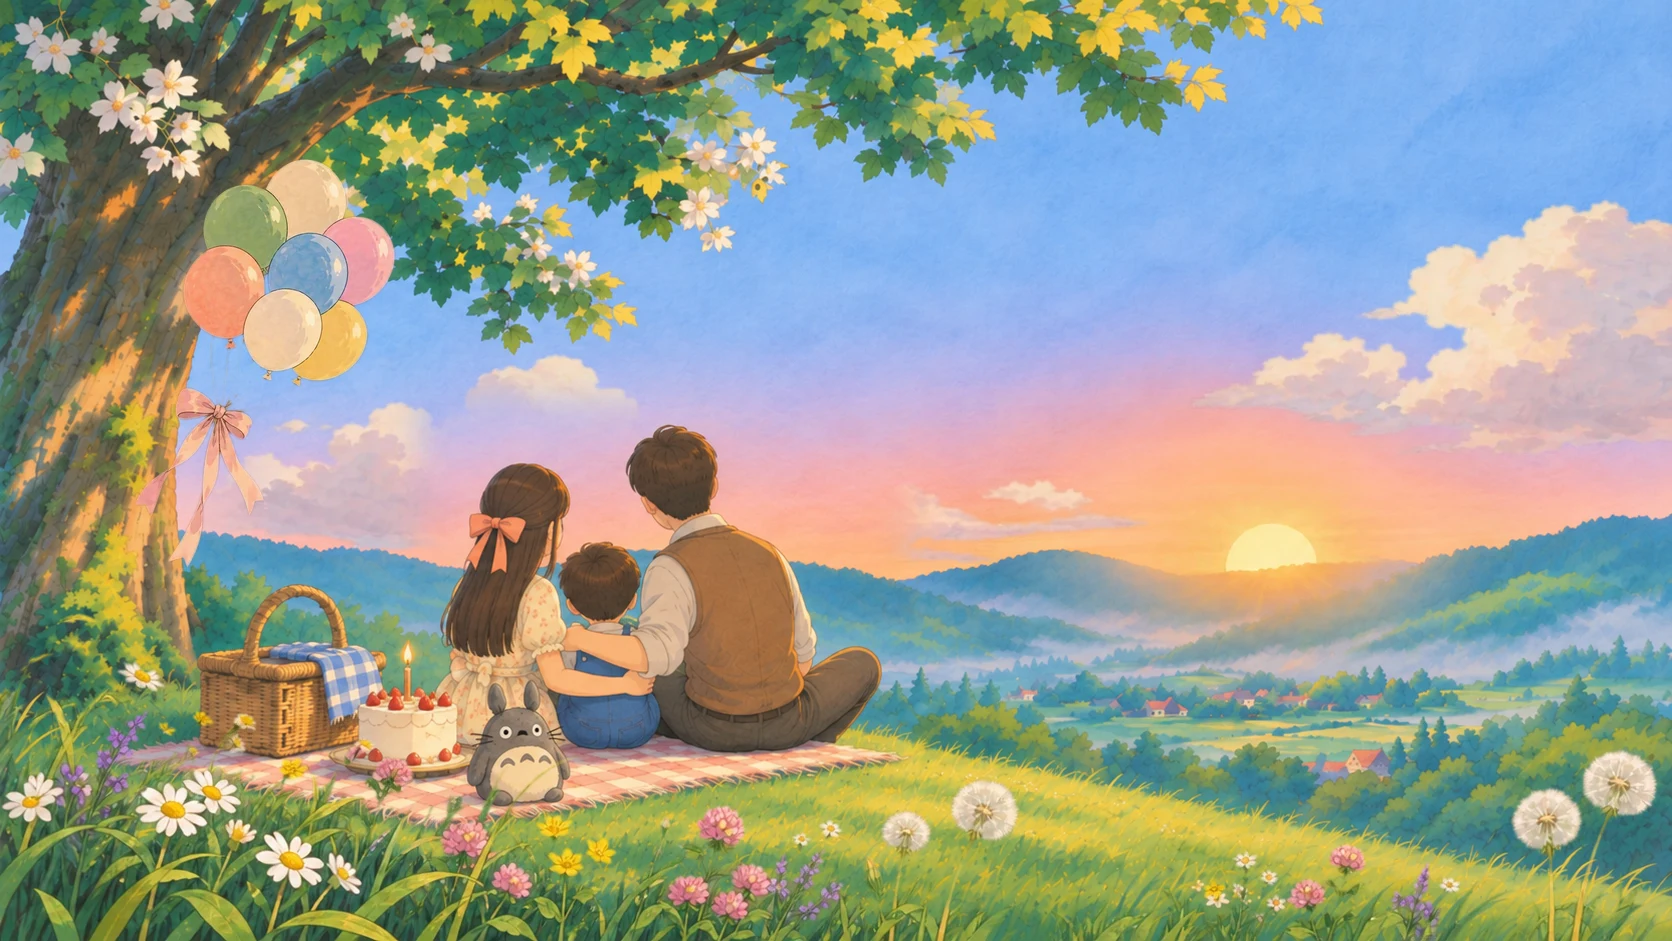
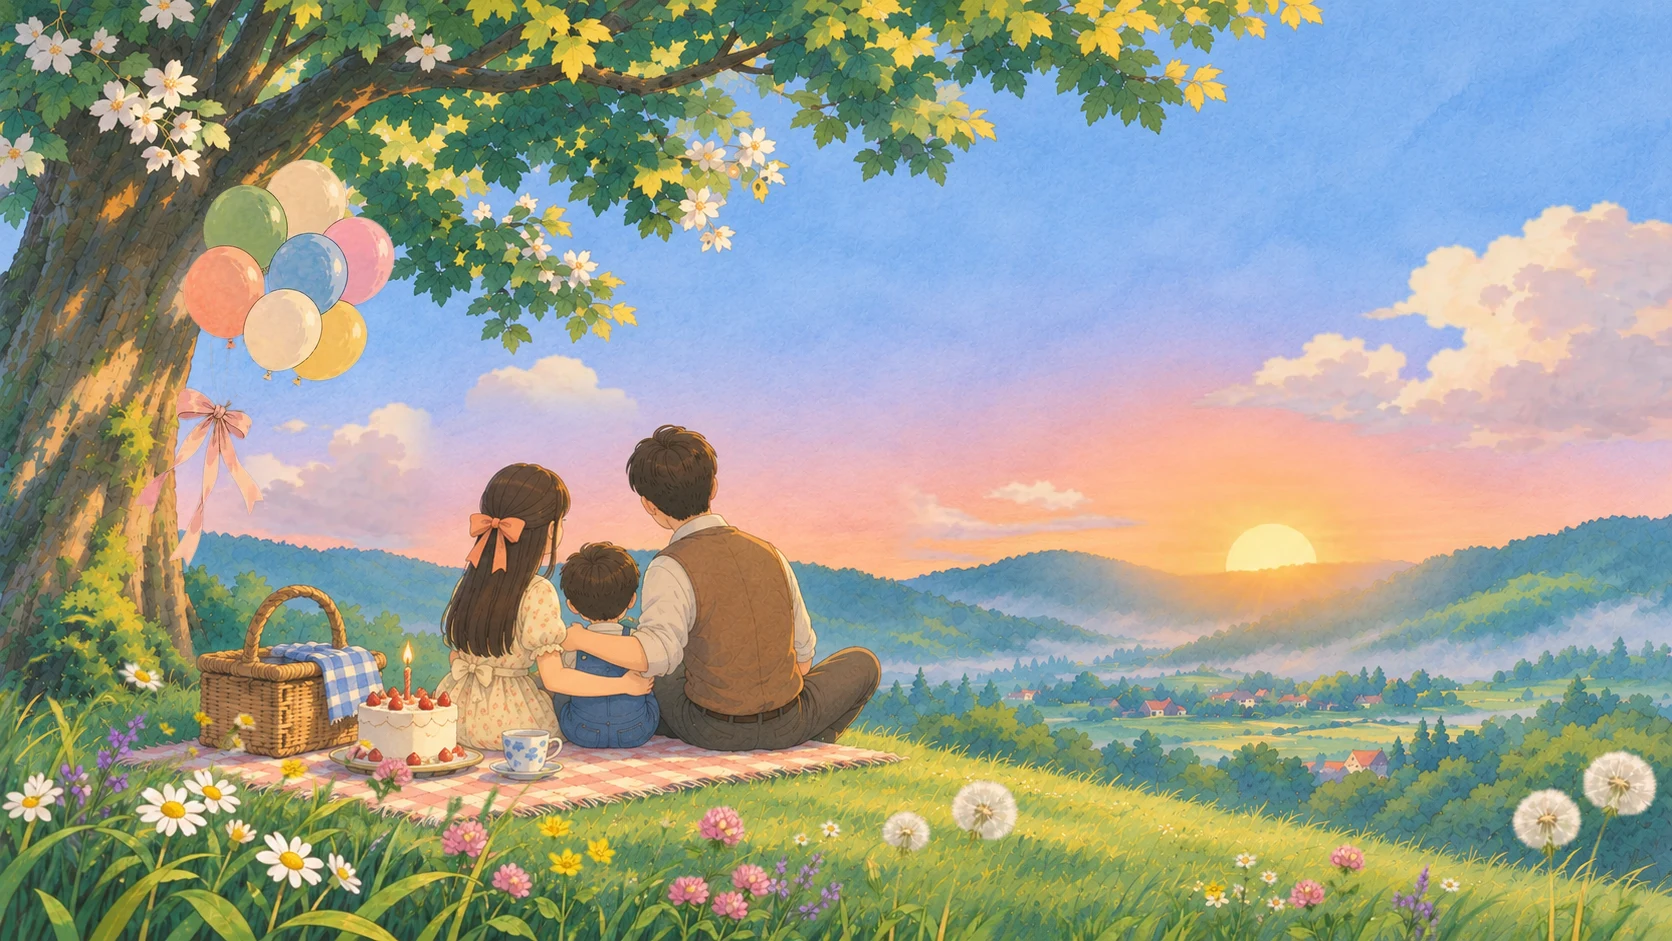
Chapter 8: new desktop painting without the plush; smaller Totoro on both layouts

diff --git a/src/scenes/ThankYouDesktop.css b/src/scenes/ThankYouDesktop.css
@@ -39,6 +39,6 @@
 .dc-ThankYouDesktop .trailp.tl{width:9px;height:9px;border-radius:80% 0 80% 0}
 .dc-ThankYouDesktop .trailp.ts{width:6px;height:6px;border-radius:50%;background:#FFF3C4;box-shadow:0 0 8px 3px rgba(247,216,115,.75)}
 
-/* Totoro sits on the blanket at the family's backs, holding his leaf, covering the painted plush.
+/* Totoro sits on the blanket at the family's backs, holding his leaf, between the cake and the family.
    In front of the painting, behind the foreground flowers. Positioned in % of the painting so it stays put at every size. */
-.dc-ThankYouDesktop .totoro{position:absolute;left:25.12%;top:66.2%;width:9.51%;height:auto;pointer-events:none;user-select:none;filter:drop-shadow(0 6px 5px rgba(40,50,20,.28));transform-origin:50% 100%}
+.dc-ThankYouDesktop .totoro{position:absolute;left:26.63%;top:70.99%;width:7.12%;height:auto;pointer-events:none;user-select:none;filter:drop-shadow(0 6px 5px rgba(40,50,20,.28));transform-origin:50% 100%}

diff --git a/src/scenes/ThankYouMobile.css b/src/scenes/ThankYouMobile.css
@@ -55,4 +55,4 @@ top:clamp(calc(100cqh - var(--sh)), calc(50cqh - var(--sh) * 0.634), 0px)}
 
 /* Totoro sits on the blanket at the family's backs (between the cake and the teacup), holding his leaf.
    Low enough to stay above the message card. Positioned in % of the painting so it holds at every size. */
-.dc-ThankYouMobile .totoro{position:absolute;left:42.3%;top:47.1%;width:24.7%;height:auto;pointer-events:none;user-select:none;filter:drop-shadow(0 6px 5px rgba(40,50,20,.28));transform-origin:50% 100%}
+.dc-ThankYouMobile .totoro{position:absolute;left:46.2%;top:51.04%;width:18.52%;height:auto;pointer-events:none;user-select:none;filter:drop-shadow(0 6px 5px rgba(40,50,20,.28));transform-origin:50% 100%}
